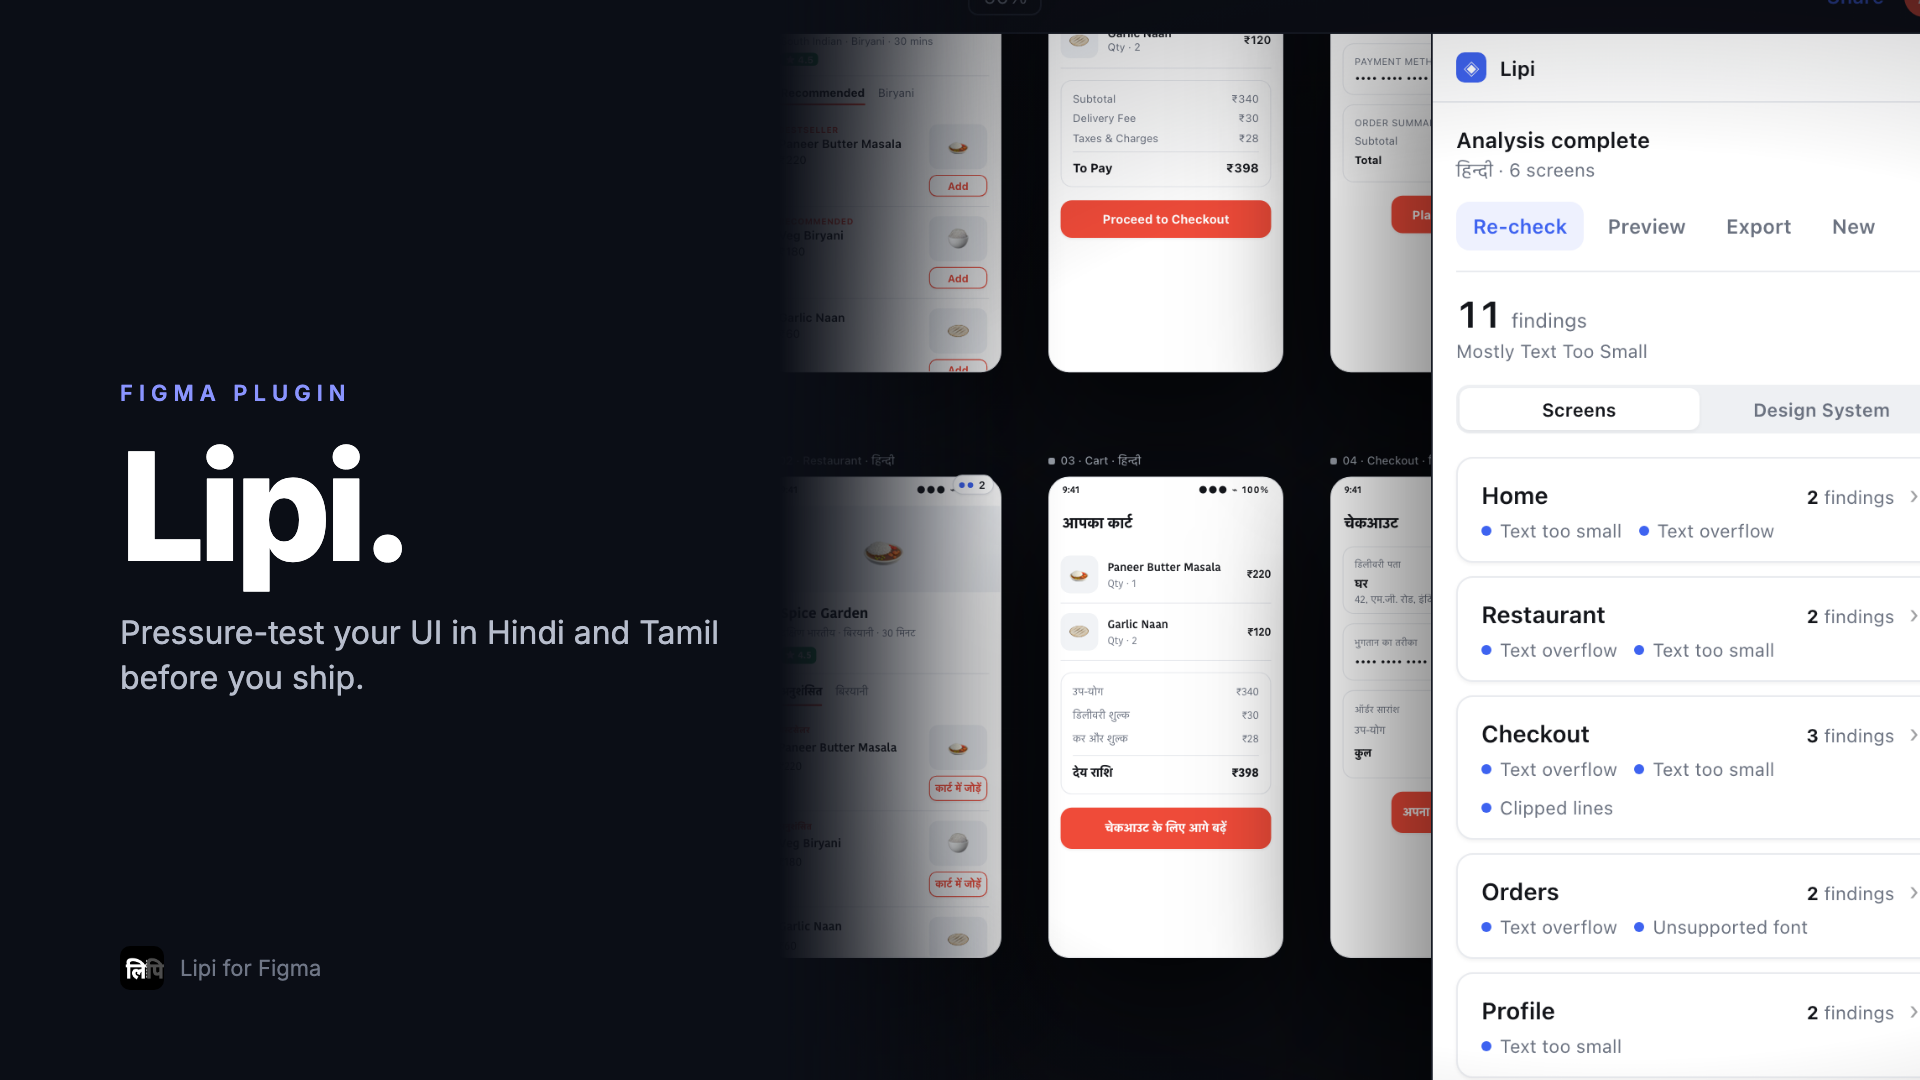
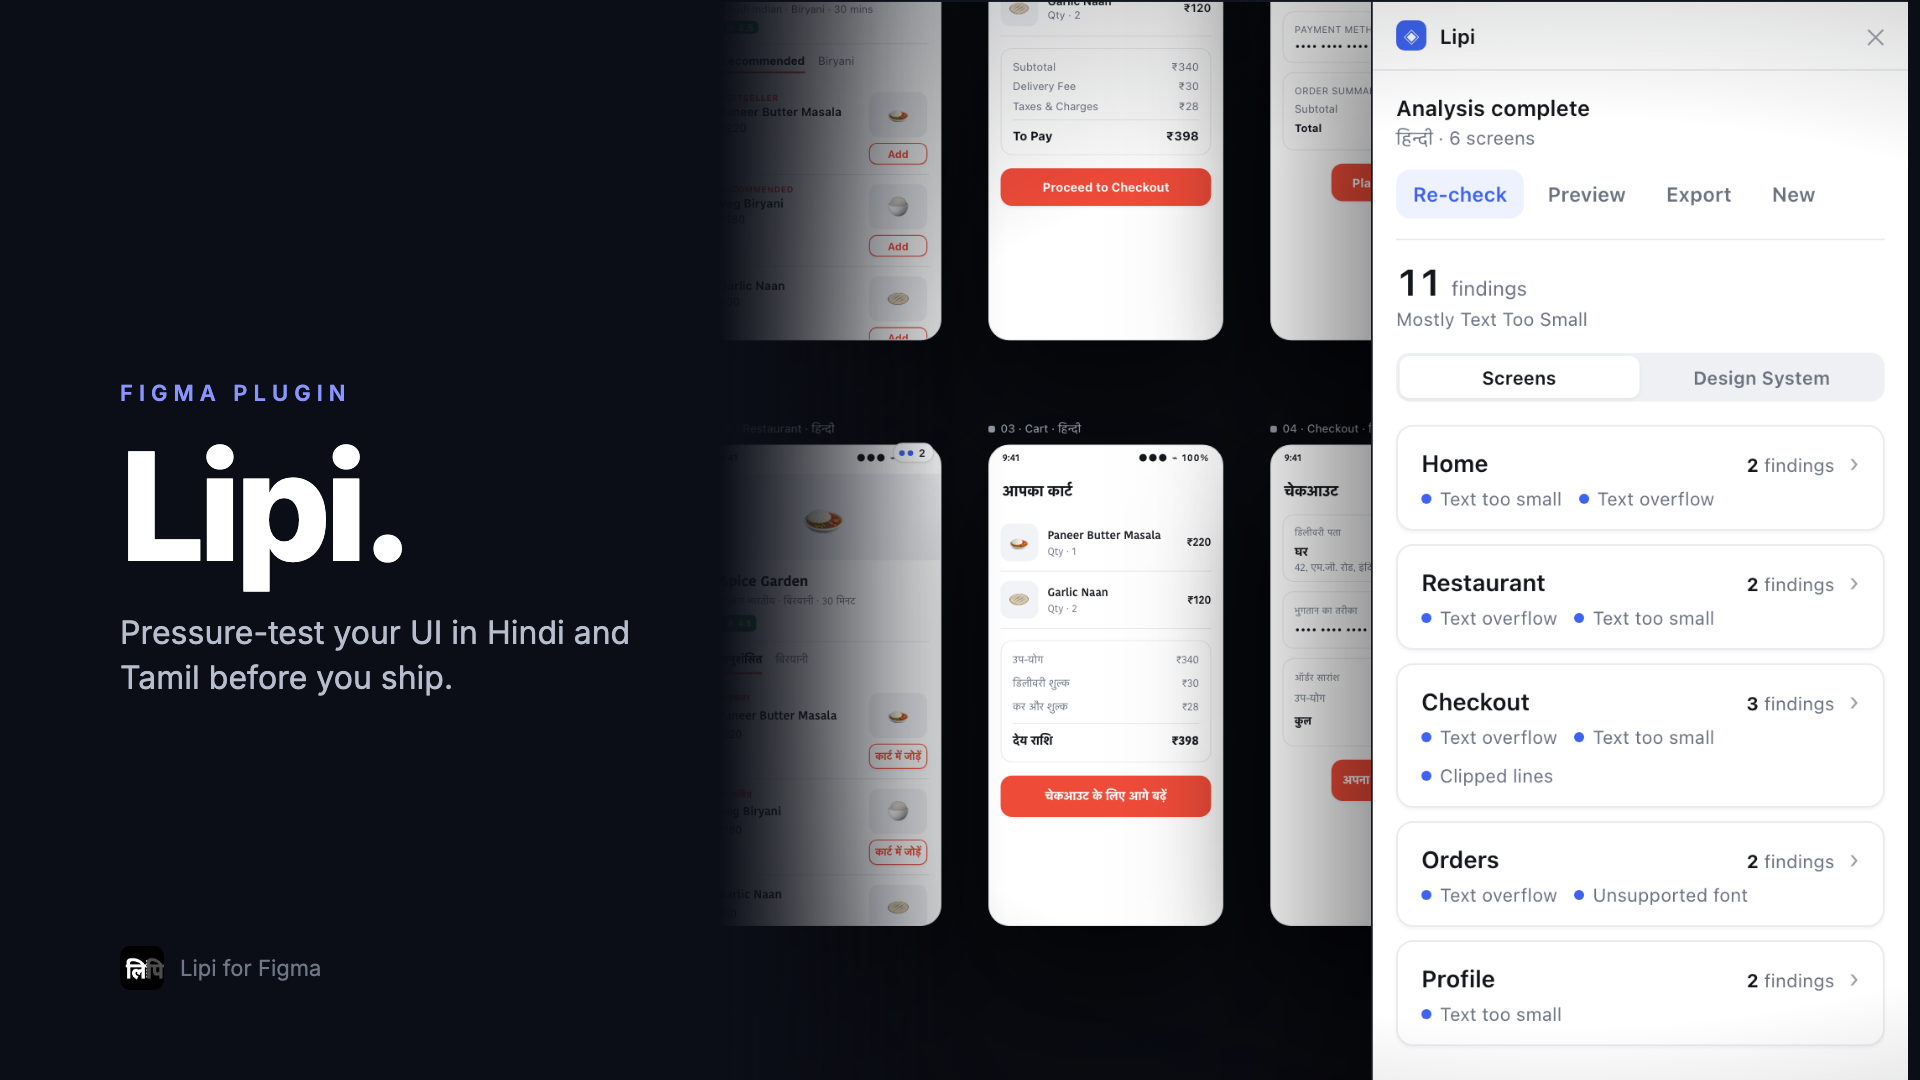
Store slides: full product panel in thumbnail and slide 1

Changed region(s): [[0.3438, 0.0, 1.0, 1.0], [0.0625, 0.6111, 0.25, 0.6417]]

diff --git a/docs/store/slides/1-meet.html b/docs/store/slides/1-meet.html
@@ -2,12 +2,12 @@
 <link href="https://fonts.googleapis.com/css2?family=Inter:wght@400;600;800&family=Noto+Sans+Devanagari:wght@800&display=swap" rel="stylesheet">
 <style>
 html,body{margin:0;width:1920px;height:1080px;background:#0b0e16;overflow:hidden;font-family:Inter,sans-serif}
-.shot{position:absolute;right:0;top:0;width:1140px;height:1080px;background:url(../../../demo/posters/03-the-product.png) no-repeat;background-size:2148px 1343px;background-position:-960px -40px;
+.shot{position:absolute;right:0;top:0;width:1200px;height:1080px;background:url(../../../demo/posters/03-the-product.png) no-repeat;background-size:2148px 1343px;background-position:-960px -72px;
   -webkit-mask-image:linear-gradient(90deg,transparent 0,#000 220px)}
 .copy{position:absolute;left:120px;top:0;bottom:0;width:640px;display:flex;flex-direction:column;justify-content:center;color:#fff}
 .k{color:#8a94ff;font-size:22px;font-weight:600;letter-spacing:6px}
 h1{font-size:150px;font-weight:800;letter-spacing:-6px;margin:24px 0 28px;line-height:1.02}
-p{font-size:32px;line-height:1.4;color:#b7bdcc;margin:0}
+p{max-width:540px;font-size:32px;line-height:1.4;color:#b7bdcc;margin:0}
 .mark{position:absolute;left:120px;bottom:90px;display:flex;align-items:center;gap:16px;color:#6f7686;font-size:22px}
 .mark img{width:44px;height:44px;border-radius:10px}
 </style></head><body>

diff --git a/docs/store/slides/thumbnail.html b/docs/store/slides/thumbnail.html
@@ -2,12 +2,12 @@
 <link href="https://fonts.googleapis.com/css2?family=Inter:wght@400;600;800&family=Noto+Sans+Devanagari:wght@800&display=swap" rel="stylesheet">
 <style>
 html,body{margin:0;width:1920px;height:1080px;background:#0b0e16;overflow:hidden;font-family:Inter,sans-serif}
-.shot{position:absolute;right:0;top:0;width:1140px;height:1080px;background:url(../../../demo/posters/03-the-product.png) no-repeat;background-size:2148px 1343px;background-position:-960px -40px;
+.shot{position:absolute;right:0;top:0;width:1200px;height:1080px;background:url(../../../demo/posters/03-the-product.png) no-repeat;background-size:2148px 1343px;background-position:-960px -72px;
   -webkit-mask-image:linear-gradient(90deg,transparent 0,#000 220px)}
 .copy{position:absolute;left:120px;top:0;bottom:0;width:640px;display:flex;flex-direction:column;justify-content:center;color:#fff}
 .k{color:#8a94ff;font-size:22px;font-weight:600;letter-spacing:6px}
 h1{font-size:150px;font-weight:800;letter-spacing:-6px;margin:24px 0 28px;line-height:1.02}
-p{font-size:32px;line-height:1.4;color:#b7bdcc;margin:0}
+p{max-width:540px;font-size:32px;line-height:1.4;color:#b7bdcc;margin:0}
 .mark{position:absolute;left:120px;bottom:90px;display:flex;align-items:center;gap:16px;color:#6f7686;font-size:22px}
 .mark img{width:44px;height:44px;border-radius:10px}
 </style></head><body>
